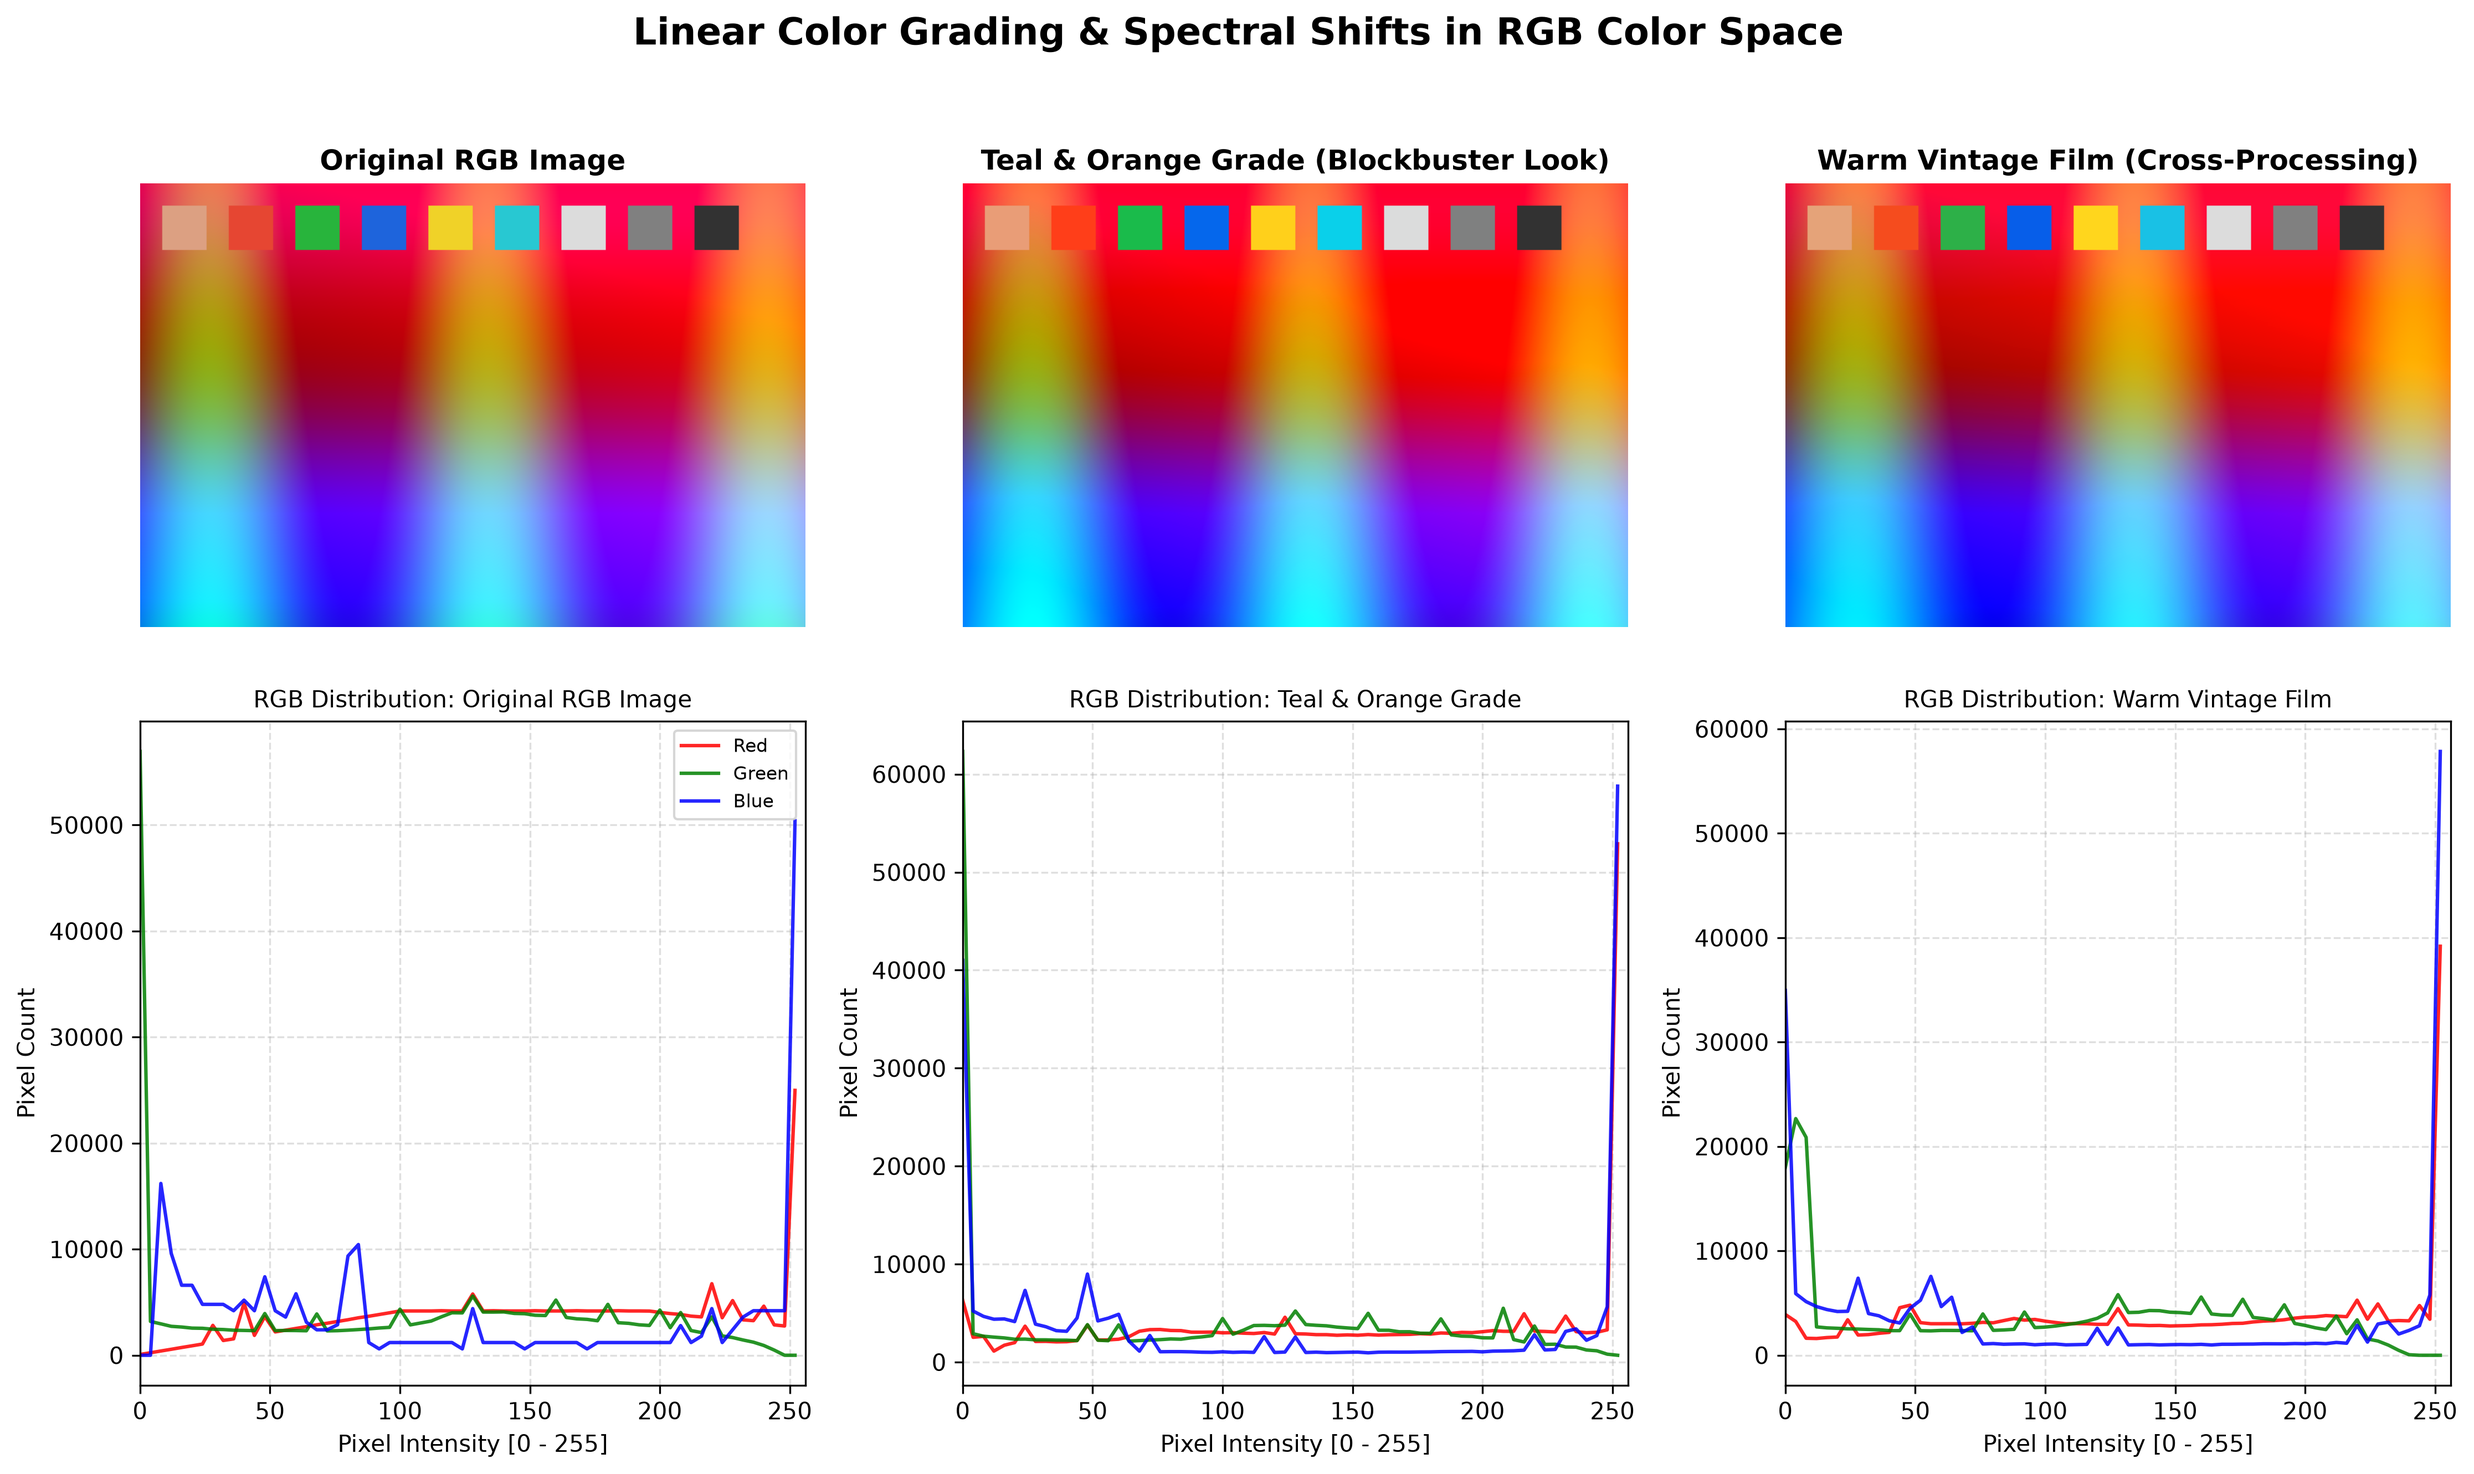
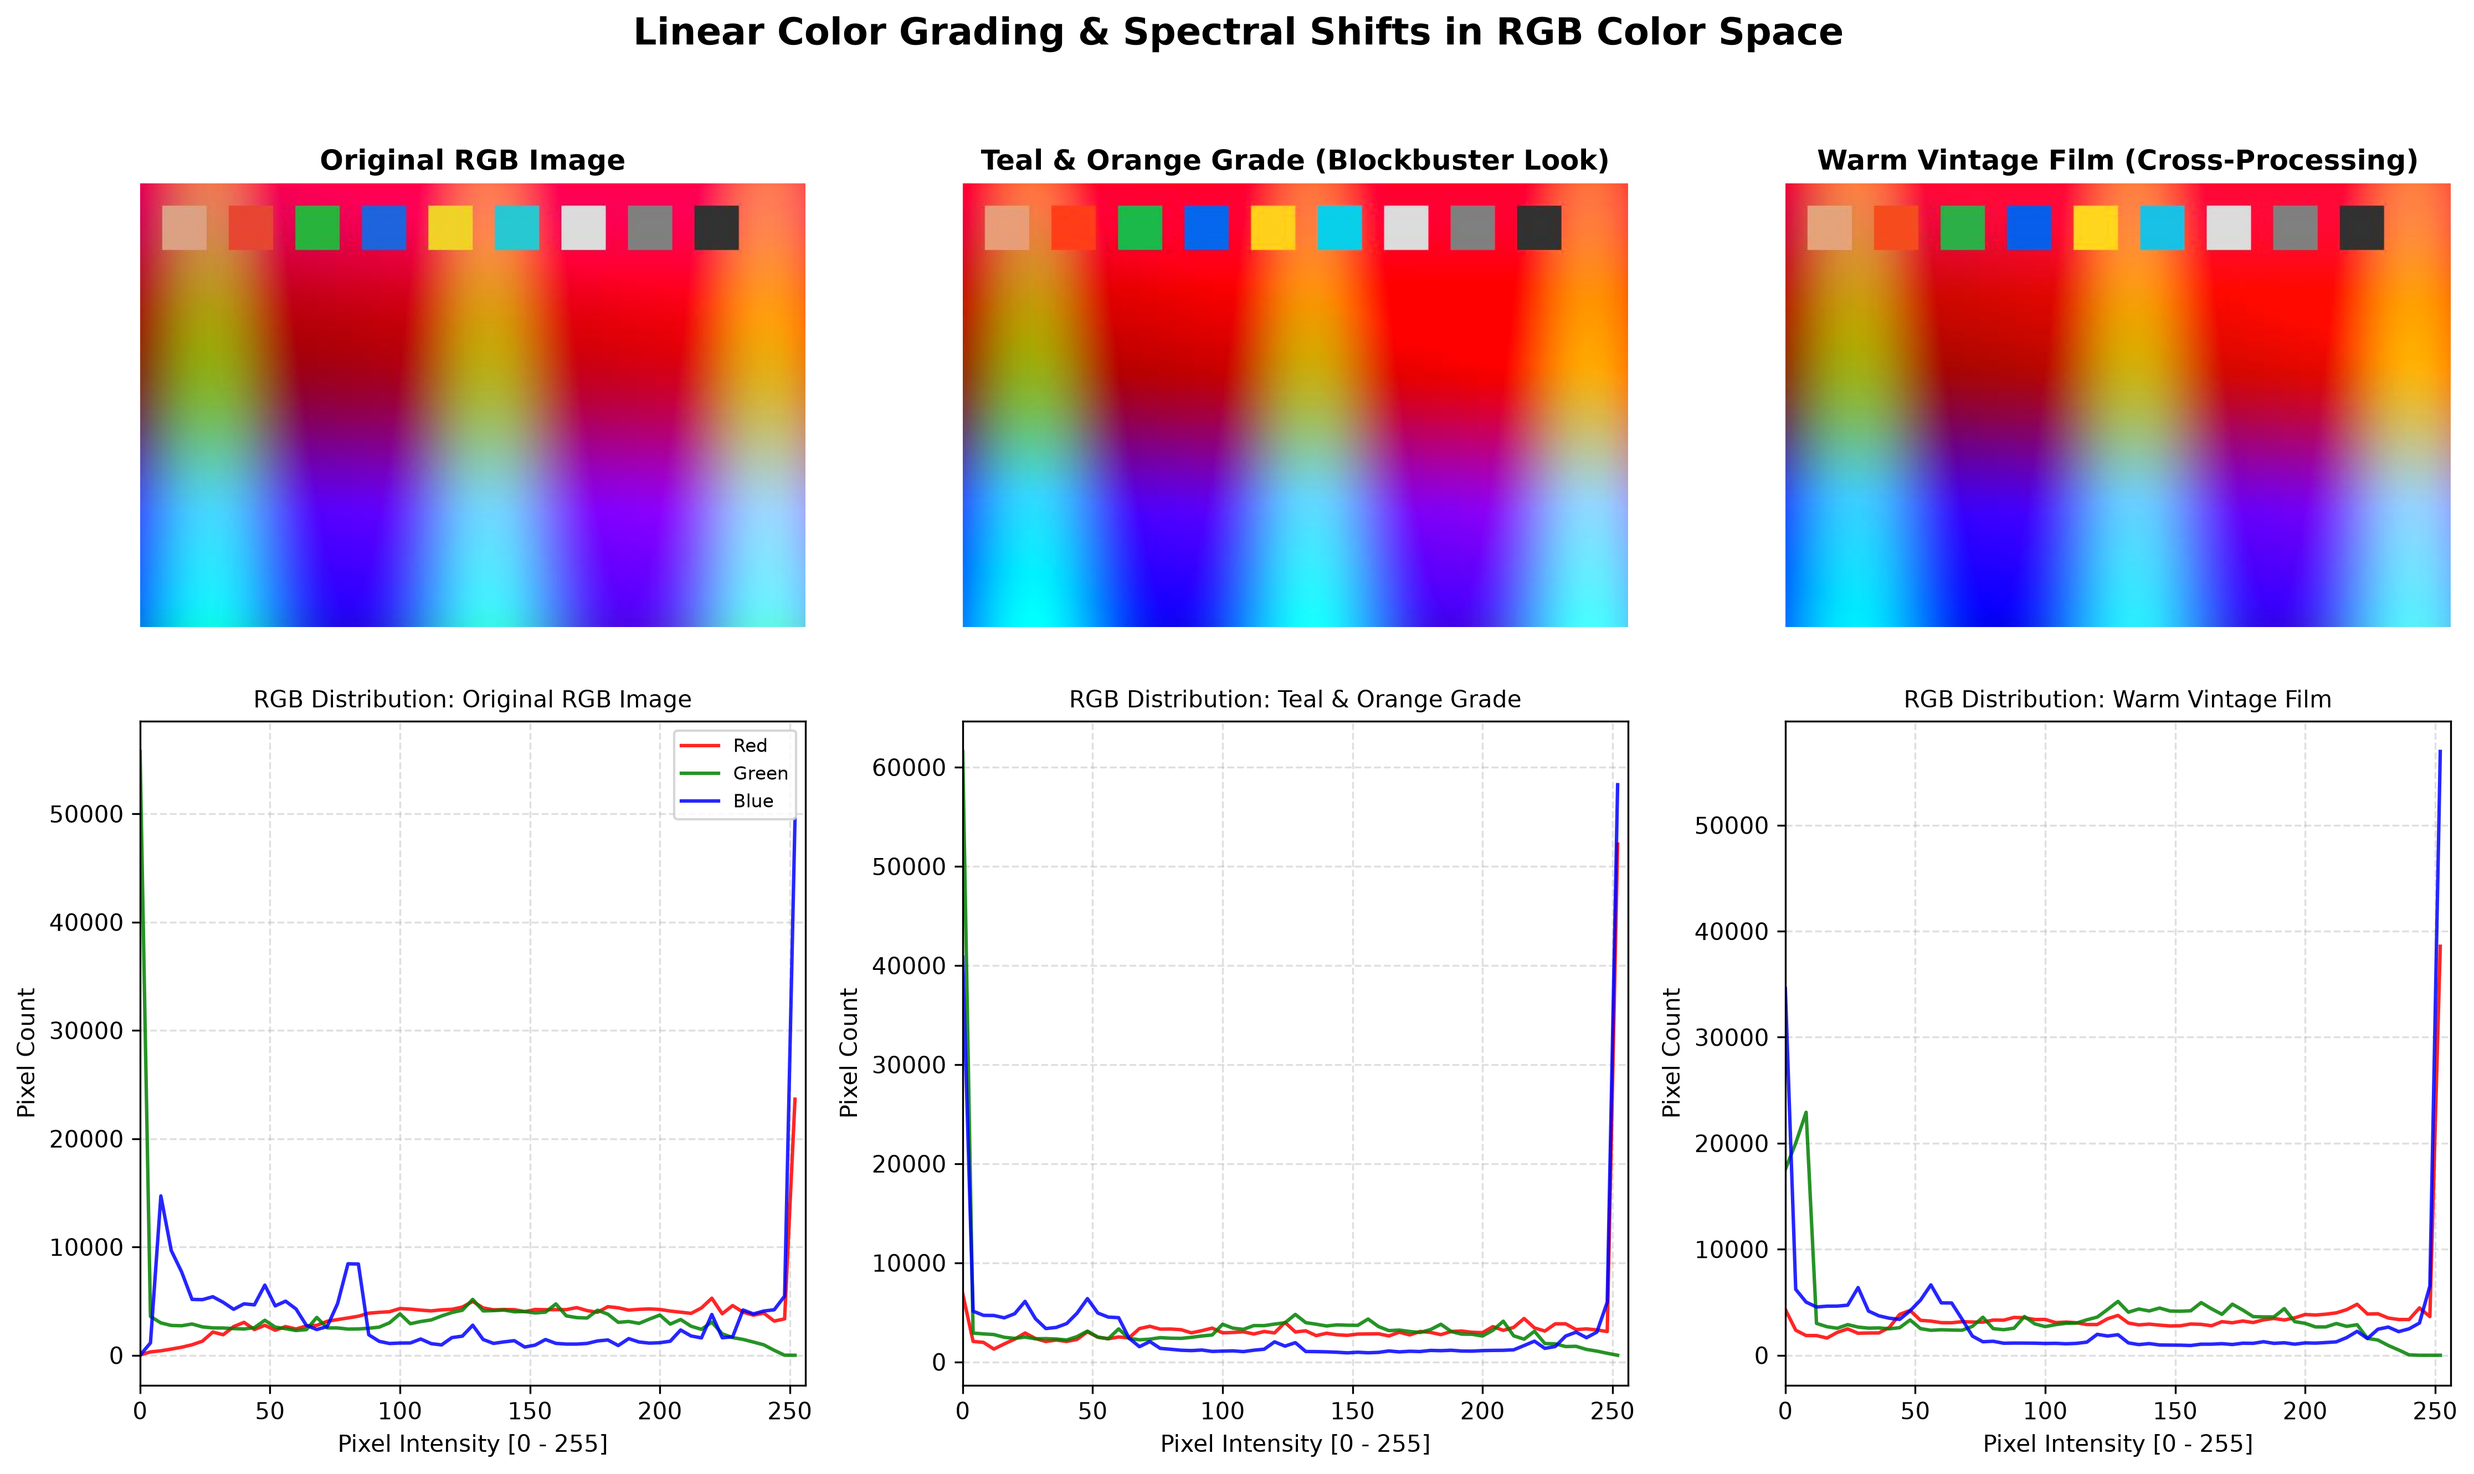
Enhance Streamlit app matrix UI and update figure outputs

diff --git a/app.py b/app.py
@@ -18,7 +18,6 @@ import io
 from typing import Tuple, Dict, Any
 
 import numpy as np
-import matplotlib.pyplot as plt
 from PIL import Image
 import streamlit as st
 
@@ -79,6 +78,16 @@ def apply_color_transformation(img: np.ndarray, matrix: np.ndarray, clip: bool =
         return np.clip(transformed, 0.0, 255.0).astype(np.uint8)
     return transformed
 
+
+
+def to_pil(img_or_arr) -> Image.Image:
+    """Converts any numpy array or PIL image to an RGB PIL Image safely."""
+    if isinstance(img_or_arr, Image.Image):
+        return img_or_arr.convert("RGB")
+    arr = np.ascontiguousarray(img_or_arr)
+    if arr.dtype != np.uint8:
+        arr = np.clip(arr, 0.0, 255.0).astype(np.uint8)
+    return Image.fromarray(arr, mode="RGB")
 
 def analyze_matrix(matrix: np.ndarray) -> Dict[str, Any]:
     """Computes determinant, condition number, eigenvalues, eigenvectors, and row sums."""
@@ -246,6 +255,12 @@ uploaded_file = st.sidebar.file_uploader("Upload an Image (.jpg, .png)", type=["
 
 if uploaded_file is not None:
     img_pil = Image.open(uploaded_file).convert("RGB")
+    # Resize high-resolution images smoothly if larger than 800px on any dimension
+    max_dim = 800
+    if max(img_pil.size) > max_dim:
+        scale = max_dim / max(img_pil.size)
+        new_size = (int(img_pil.width * scale), int(img_pil.height * scale))
+        img_pil = img_pil.resize(new_size, Image.Resampling.LANCZOS)
     current_img = np.array(img_pil)
     source_label = f"Uploaded: {uploaded_file.name}"
 else:
@@ -273,48 +288,48 @@ with tab_grading:
     
     col_preset, col_reset = st.columns([3, 1])
     with col_preset:
-        selected_preset = st.selectbox("Choose a Filter Preset:", list(PRESETS.keys()), index=0)
+        selected_preset = st.selectbox("Choose a Filter Preset:", list(PRESETS.keys()), index=0, key="filter_preset_select")
     
-    # Session state for interactive matrix grid
-    if "current_matrix" not in st.session_state or st.session_state.get("last_preset") != selected_preset:
-        st.session_state.current_matrix = PRESETS[selected_preset].copy()
-        st.session_state.last_preset = selected_preset
-        
+    preset_mat = PRESETS[selected_preset]
+    # Initialize session state for all 9 matrix cells if not present or if preset changed
+    if "current_preset_loaded" not in st.session_state or st.session_state["current_preset_loaded"] != selected_preset:
+        st.session_state["current_preset_loaded"] = selected_preset
+        for r in range(3):
+            for c in range(3):
+                st.session_state[f"cell_{r}_{c}"] = float(preset_mat[r, c])
+
     with col_reset:
         st.write("")
         st.write("")
         if st.button("Reset Matrix to Preset"):
-            st.session_state.current_matrix = PRESETS[selected_preset].copy()
+            for r in range(3):
+                for c in range(3):
+                    st.session_state[f"cell_{r}_{c}"] = float(preset_mat[r, c])
             st.rerun()
 
-    # Interactive Matrix Editing Grid
-    st.markdown("##### Interactive $3 \\times 3$ Transformation Matrix $M$:")
+    st.markdown("##### Interactive  \times 3$ Transformation Matrix $:")
     col_m1, col_m2, col_m3 = st.columns(3)
-    
-    m_val = st.session_state.current_matrix.copy()
-    
+    m_val = np.zeros((3, 3), dtype=np.float64)
+
     with col_m1:
         st.caption("**Red Output Channel**")
-        m_val[0, 0] = st.number_input("M[0,0] (R → R)", value=float(m_val[0, 0]), step=0.05, format="%.2f", key="m00")
-        m_val[0, 1] = st.number_input("M[0,1] (G → R)", value=float(m_val[0, 1]), step=0.05, format="%.2f", key="m01")
-        m_val[0, 2] = st.number_input("M[0,2] (B → R)", value=float(m_val[0, 2]), step=0.05, format="%.2f", key="m02")
-        
+        m_val[0, 0] = st.number_input("M[0,0] (R → R)", step=0.05, format="%.2f", key="cell_0_0")
+        m_val[0, 1] = st.number_input("M[0,1] (G → R)", step=0.05, format="%.2f", key="cell_0_1")
+        m_val[0, 2] = st.number_input("M[0,2] (B → R)", step=0.05, format="%.2f", key="cell_0_2")
+
     with col_m2:
         st.caption("**Green Output Channel**")
-        m_val[1, 0] = st.number_input("M[1,0] (R → G)", value=float(m_val[1, 0]), step=0.05, format="%.2f", key="m10")
-        m_val[1, 1] = st.number_input("M[1,1] (G → G)", value=float(m_val[1, 1]), step=0.05, format="%.2f", key="m11")
-        m_val[1, 2] = st.number_input("M[1,2] (B → G)", value=float(m_val[1, 2]), step=0.05, format="%.2f", key="m12")
-        
+        m_val[1, 0] = st.number_input("M[1,0] (R → G)", step=0.05, format="%.2f", key="cell_1_0")
+        m_val[1, 1] = st.number_input("M[1,1] (G → G)", step=0.05, format="%.2f", key="cell_1_1")
+        m_val[1, 2] = st.number_input("M[1,2] (B → G)", step=0.05, format="%.2f", key="cell_1_2")
+
     with col_m3:
         st.caption("**Blue Output Channel**")
-        m_val[2, 0] = st.number_input("M[2,0] (R → B)", value=float(m_val[2, 0]), step=0.05, format="%.2f", key="m20")
-        m_val[2, 1] = st.number_input("M[2,1] (G → B)", value=float(m_val[2, 1]), step=0.05, format="%.2f", key="m21")
-        m_val[2, 2] = st.number_input("M[2,2] (B → B)", value=float(m_val[2, 2]), step=0.05, format="%.2f", key="m22")
+        m_val[2, 0] = st.number_input("M[2,0] (R → B)", step=0.05, format="%.2f", key="cell_2_0")
+        m_val[2, 1] = st.number_input("M[2,1] (G → B)", step=0.05, format="%.2f", key="cell_2_1")
+        m_val[2, 2] = st.number_input("M[2,2] (B → B)", step=0.05, format="%.2f", key="cell_2_2")
 
-    st.session_state.current_matrix = m_val
     matrix_props = analyze_matrix(m_val)
-    
-    # Linear Algebra Diagnostics Card
     st.markdown("---")
     st.markdown("##### 🔬 Spectral Properties & Exposure Indicators:")
     d_col1, d_col2, d_col3, d_col4 = st.columns(4)
@@ -342,9 +357,9 @@ with tab_grading:
     # Visual Display: Side-by-Side Images
     img_col1, img_col2 = st.columns(2)
     with img_col1:
-        st.image(current_img, caption="Original RGB Image", width='stretch')
+        st.image(to_pil(current_img), caption="Original RGB Image", use_container_width=True, output_format="JPEG")
     with img_col2:
-        st.image(graded_img, caption="Linearly Transformed Output Image (I' = I · M^T)", width='stretch')
+        st.image(to_pil(graded_img), caption="Linearly Transformed Output Image (I' = I · M^T)", use_container_width=True, output_format="JPEG")
 
 
 
@@ -390,11 +405,11 @@ with tab_crypto:
     # Display 3-Stage Pipeline
     c_img1, c_img2, c_img3 = st.columns(3)
     with c_img1:
-        st.image(current_img, caption="1. Original Plaintext P", width='stretch')
+        st.image(to_pil(current_img), caption="1. Original Plaintext P", use_container_width=True, output_format="JPEG")
     with c_img2:
-        st.image(display_scramble, caption="2. Scrambled Cipher P' = K @ P", width='stretch')
+        st.image(to_pil(display_scramble), caption="2. Scrambled Cipher P' = K @ P", use_container_width=True, output_format="JPEG")
     with c_img3:
-        st.image(decrypted_img, caption="3. Recovered Image P_rec = K^(-1) @ P'", width='stretch')
+        st.image(to_pil(decrypted_img), caption="3. Recovered Image P_rec = K^(-1) @ P'", use_container_width=True, output_format="JPEG")
 
     # Verification Banner
     st.markdown("---")
@@ -404,7 +419,7 @@ with tab_crypto:
     with v_col2:
         st.metric("PSNR (Reconstruction Quality)", "∞ dB" if np.isinf(rec_psnr) else f"{rec_psnr:.2f} dB")
     with v_col3:
-        st.success("✅ **Mathematical Theorem Confirmed:**\n\nSince $\\det(K) \\neq 0$ and the matrix is well-conditioned ($\kappa = 1.21$), information is **100% preserved** and fully recoverable with zero distortion.")
+        st.success("✅ **Mathematical Theorem Confirmed:**\n\nSince $\det(K) \neq 0$ and the matrix is well-conditioned ($\kappa = 1.21$), information is **100% preserved** and fully recoverable with zero distortion.")
 
     with st.expander("🔍 Show Computed Inverse Matrix K^(-1)"):
         st.write("Computed Inverse Matrix $K^{-1}$ using `np.linalg.inv`:")
@@ -445,11 +460,11 @@ with tab_singular:
     # Visual Comparison
     f_col1, f_col2, f_col3 = st.columns(3)
     with f_col1:
-        st.image(current_img, caption="1. Original Image", width='stretch')
+        st.image(to_pil(current_img), caption="1. Original Image", use_container_width=True, output_format="JPEG")
     with f_col2:
-        st.image(sepia_filtered, caption="2. Sepia Filtered (Lab PDF)", width='stretch')
+        st.image(to_pil(sepia_filtered), caption="2. Sepia Filtered (Lab PDF)", use_container_width=True, output_format="JPEG")
     with f_col3:
-        st.image(failed_recovery, caption="3. Attempted Recovery via inv(Sepia)", width='stretch')
+        st.image(to_pil(failed_recovery), caption="3. Attempted Recovery via inv(Sepia)", use_container_width=True, output_format="JPEG")
 
     # Explanation Callout
     st.markdown("---")
